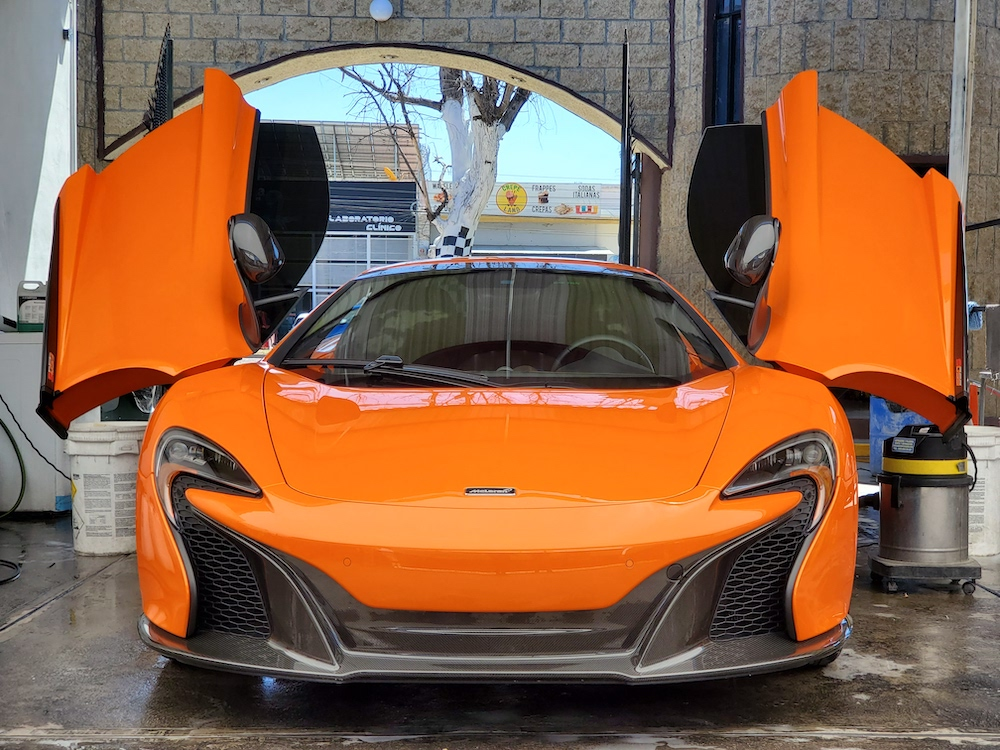
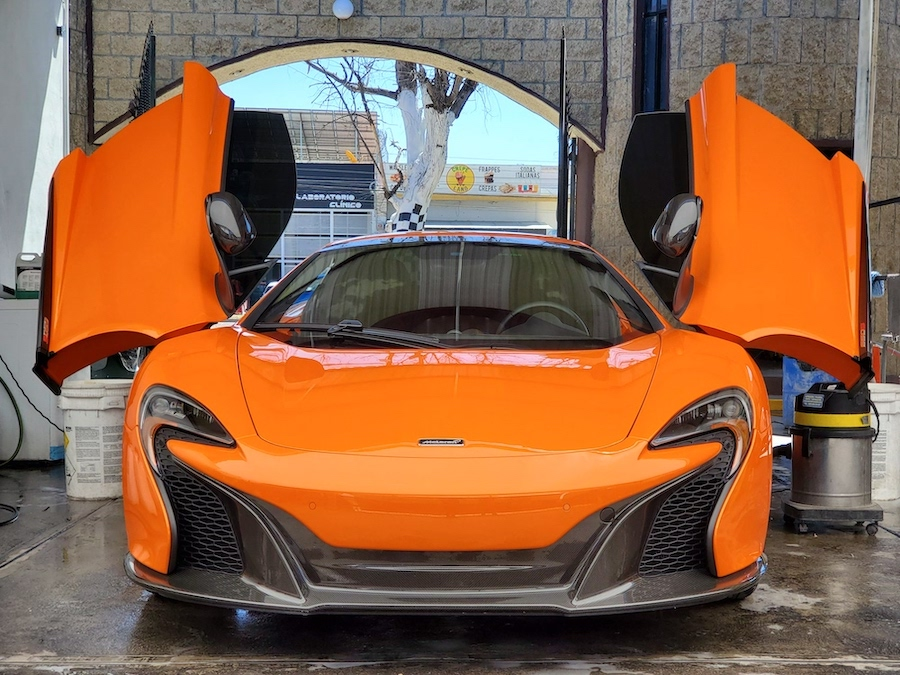
Updated images size; Fixed services height in desktop and big desktop

Changed region(s): [[0.4356, 0.3111, 0.4667, 0.3422]]

diff --git a/css/main.css b/css/main.css
@@ -1,1 +1,1 @@
-@-webkit-keyframes rev-block{0%{left:0%;width:0%}50%{left:0;width:85%}100%{left:100%;width:0}}@keyframes rev-block{0%{left:0%;width:0%}50%{left:0;width:85%}100%{left:100%;width:0}}@-webkit-keyframes appear-text{0%{opacity:0}100%{opacity:1}}@keyframes appear-text{0%{opacity:0}100%{opacity:1}}section.services{position:relative;background:#F8F8F9}@media only screen and (min-width: 85em){section.services{background:none;height:63vh}}@media only screen and (min-width: 112.5em){section.services{background:none;height:100vh}}section.services::after{background:#F8F8F9;content:"";position:absolute;top:3rem;left:0;width:100%;height:63%;z-index:-1}@media only screen and (min-width: 1024px) and (max-height: 1366px) and (orientation: landscape) and (-webkit-min-device-pixel-ratio: 1.5){section.services::after{height:50vh}}@media only screen and (min-width: 85em){section.services::after{height:60vh}}@media only screen and (min-width: 112.5em){section.services::after{height:55vh}}@media only screen and (min-width: 85em){section.services .services__container{position:absolute;top:5rem;left:2rem}}@media only screen and (min-width: 112.5em){section.services .services__container{top:6rem}}@media only screen and (min-width: 56.25em){section.services .services__img-container img{position:absolute}section.services .services__img-container img:nth-of-type(1){width:400px;left:-1rem;top:7%}}@media only screen and (min-width: 56.25em) and (min-width: 85em){section.services .services__img-container img:nth-of-type(1){width:400px;left:-2rem;top:7%}}@media only screen and (min-width: 56.25em) and (min-width: 112.5em){section.services .services__img-container img:nth-of-type(1){width:500px;left:-7rem;top:7%}}@media only screen and (min-width: 56.25em){section.services .services__img-container img:nth-of-type(2){width:400px;left:1rem;top:10rem}}@media only screen and (min-width: 56.25em) and (min-width: 85em){section.services .services__img-container img:nth-of-type(2){width:400px;left:0;top:7rem}}@media only screen and (min-width: 56.25em) and (min-width: 112.5em){section.services .services__img-container img:nth-of-type(2){width:500px;left:-3rem;top:7rem}}section.services .card{border:none;background:#F8F8F9}section.services .card-img-top{-ms-flex-item-align:center;-ms-grid-row-align:center;align-self:center;width:61px;height:61px}section.services .card-title{font-family:"Roboto",sans-serif;font-size:1.1rem}section.services .card-text{font-size:0.9rem;color:#747F8D}#blog{margin:2rem 0}@media only screen and (min-width: 85em){#blog a{margin-left:2rem}}#information{background-image:url("../img/bg-why.jpg");background-size:cover;background-position:center;height:100%}@media only screen and (min-width: 112.5em){#information{height:700px}}#information p{padding:3rem 0;margin:0}@media only screen and (min-width: 85em){#information p{padding:4rem 0}}#information h2{font-size:2rem;font-family:"Roboto",sans-serif}@media only screen and (min-width: 112.5em){#information h2{font-size:3.5rem}}#information .red-line{height:7px;background-color:#d5001c;width:200px}@media only screen and (min-width: 112.5em){#information .red-line{width:340px}}#information p{color:#747f8d;font-size:1.1rem}#information ul li{list-style:none;color:#0f263a;font-weight:bold;list-style-image:url("../img/check.svg")}.book{background-color:#f8f8f9;padding:2rem 0}.book .col-md-4{margin-top:2rem}.book .col-md-4:first-child{margin-top:0}@media only screen and (min-width: 56.25em){.book .col-md-4{margin-top:0}}@media only screen and (min-width: 112.5em){.book{padding:3rem 0;height:120px}}.book h3,.book h5{font-family:"Roboto",sans-serif;margin-bottom:0}.book h3{font-style:normal;font-weight:bold;font-size:1.6rem}.book .italic{font-style:italic}.book h5{font-size:17px}.book p{font-size:1.2rem;margin-bottom:0;font-family:"Roboto",sans-serif;font-weight:bold}.work h2{font-size:32px;color:#0f263a;font-family:"Roboto",sans-serif}.work p{color:#747f8d;font-size:0.9rem;margin:1.5rem 0}.services--quote{margin-bottom:2rem}@media only screen and (min-width: 112.5em){.services--quote{margin-top:-30rem}}.services--quote .card{background:#ffffff;-webkit-box-shadow:0 0 9px 0 rgba(0,0,0,0.09);box-shadow:0 0 9px 0 rgba(0,0,0,0.09);border:none;max-height:190px}.services--quote .card img{width:20%}.services--quote .card-body{display:-webkit-box;display:-ms-flexbox;display:flex;-webkit-box-orient:horizontal;-webkit-box-direction:normal;-ms-flex-direction:row;flex-direction:row;-webkit-box-pack:justify;-ms-flex-pack:justify;justify-content:space-between;-webkit-box-align:center;-ms-flex-align:center;align-items:center}.services--quote .card-title{font-family:"Roboto",sans-serif}.services--quote .card-text{color:#747F8D}.offers{margin:3rem 0}.offers img{margin-top:1rem}@media only screen and (min-width: 85em){.offers img{margin-top:0}}.offers h1{font-family:"Roboto",sans-serif;font-style:italic;margin-bottom:2rem}.offers h1 span{font-weight:bold}.header-top{background-color:#F8F8F9;width:100%}.header-top__container{padding:0.5rem 1rem;display:-webkit-box;display:-ms-flexbox;display:flex;-webkit-box-orient:vertical;-webkit-box-direction:normal;-ms-flex-direction:column;flex-direction:column}@media only screen and (min-width: 85em){.header-top__container{-webkit-box-orient:horizontal;-webkit-box-direction:normal;-ms-flex-direction:row;flex-direction:row;padding:0.5rem 2rem}}@media only screen and (min-width: 112.5em){.header-top__container{padding:0.5rem 15rem}}.header-top__item{display:-webkit-box;display:-ms-flexbox;display:flex;-ms-flex-line-pack:center;align-content:center}.header-top__item:last-child{padding-top:0.5rem}@media only screen and (min-width: 56.25em){.header-top__item{margin-top:0.5rem}.header-top__item img{height:18px}.header-top__item:last-child{padding-top:0}}@media only screen and (min-width: 85em){.header-top__item{padding-left:2rem;-webkit-box-pack:center;-ms-flex-pack:center;justify-content:center;margin-top:0}}.header-top__item p,.header-top__item a{font-size:0.8rem;margin:0;-ms-flex-item-align:center;-ms-grid-row-align:center;align-self:center;font-family:"Roboto",sans-serif;color:#747F8D}.header-top__item p{padding-left:0.5rem}.header-top__item p span{color:#000;font-weight:bold}.header-top__item p a:hover{text-decoration:none}nav.navbar a.navbar-brand img{height:75px}nav.navbar ul.navbar-nav li.nav-item .dropdown-menu{padding:1.5rem 0}nav.navbar ul.navbar-nav li.nav-item .dropdown-menu img{height:80px}nav.navbar ul.navbar-nav li.nav-item .dropdown-menu .dropdown-body a{font-size:1rem}nav.navbar ul.navbar-nav li.nav-item h6:last-child{margin-top:5rem}@media screen and (min-width: 1200px){nav.navbar ul.navbar-nav li.nav-item .dropdown-menu{width:350px !important;-webkit-box-shadow:0 1.5rem 4rem rgba(22,28,45,0.15);box-shadow:0 1.5rem 4rem rgba(22,28,45,0.15);border:0 solid rgba(22,28,45,0.15);padding:2rem 0;left:-12rem}nav.navbar ul.navbar-nav li.nav-item .dropdown-menu .dropdown-img-left{height:100%;background-repeat:no-repeat;background-position:center;text-align:center}nav.navbar ul.navbar-nav li.nav-item .dropdown-menu .dropdown-body h6,nav.navbar ul.navbar-nav li.nav-item .dropdown-menu .dropdown-body a{padding-left:0}nav.navbar ul.navbar-nav li.nav-item .dropdown-menu .dropdown-body a.dropdown-item{position:relative;background-color:#fff;color:#3b3b3b;-webkit-transition:color .3s;transition:color .3s}nav.navbar ul.navbar-nav li.nav-item .dropdown-menu .dropdown-body a.dropdown-item:hover{color:#019E92}}nav.navbar ul.navbar-nav li.nav-item.active{font-weight:bold}nav.navbar ul.navbar-nav li.nav-item a.nav-link{padding-right:2rem;font-family:"Roboto",sans-serif;text-transform:uppercase;letter-spacing:.7px;position:relative}nav.navbar ul.navbar-nav li.nav-item a.nav-link:before{content:"";display:block;border-bottom:3px solid #D5001C;width:0;bottom:0;position:absolute;left:7px;-webkit-transition:0.2s ease;-webkit-transition:1s ease;transition:1s ease}nav.navbar ul.navbar-nav li.nav-item a.nav-link:hover:before{width:50%}nav.navbar ul.navbar-nav li.nav-item a.nav-link--green:focus{outline:none}nav.navbar ul.navbar-nav li.nav-item a.nav-link--green:before{content:"";display:block;border-bottom:3px solid #019E92;width:0;bottom:0;position:absolute;left:7px;-webkit-transition:0.2s ease;-webkit-transition:1s ease;transition:1s ease}nav.navbar ul.navbar-nav li.nav-item a.nav-link--green:hover:before{width:50%}@media only screen and (min-width: 85em){.navbar .nav-item:not(:last-child){margin-right:25px}}.dropdown-toggle::after{-webkit-transition:-webkit-transform 0.15s linear;transition:-webkit-transform 0.15s linear;transition:transform 0.15s linear;transition:transform 0.15s linear, -webkit-transform 0.15s linear}.show.dropdown .dropdown-toggle::after{-webkit-transform:translateY(3px);transform:translateY(3px)}.dropdown-menu{margin-top:0}.jumbotron{background-color:#fff}@media only screen and (min-width: 85em){.jumbotron{padding:1rem 0;margin-bottom:5rem}}@media only screen and (min-width: 85em){.jumbotron__content{padding-right:2rem}}.jumbotron__content .title{position:relative}.jumbotron__content .title:after{content:"";position:absolute;top:0;left:0;width:0;height:90%;background:#D5001C;-webkit-animation:rev-block 1.5s cubic-bezier(0.19, 1, 0.22, 1) forwards;animation:rev-block 1.5s cubic-bezier(0.19, 1, 0.22, 1) forwards;-webkit-animation-delay:1.4s;animation-delay:1.4s}.jumbotron__content .title span{opacity:0;-webkit-animation:appear-text 0.0001s linear forwards;animation:appear-text 0.0001s linear forwards;-webkit-animation-delay:2s;animation-delay:2s;font-family:"Roboto",sans-serif;font-size:3rem}@media only screen and (min-width: 85em){.jumbotron__content .title span{font-size:3.8rem}}.jumbotron__content p{padding:2.7rem 0;font-size:.9rem}footer{background-color:#191f22;padding-bottom:1.5rem;color:#fff}@media only screen and (min-width: 85em){footer{padding-bottom:0.5rem}}footer img{height:122px;width:auto}@media only screen and (min-width: 37.5em){footer p{font-size:0.7rem}}footer a{color:#fff;font-size:0.9rem}footer a:hover{text-decoration:none;color:#fff}footer ul{text-transform:uppercase;font-family:"Roboto",sans-serif;font-weight:bold;letter-spacing:2px;font-size:0.8rem;padding:0}@media only screen and (min-width: 85em){footer ul{-webkit-padding-start:40px;padding-inline-start:40px}}footer ul li{font-family:"Spartan",sans-serif;text-transform:capitalize;list-style:none;font-size:0.8rem;margin-top:1rem}footer ul li a{font-family:"Spartan",sans-serif;color:#fff;text-decoration:none}.btn{display:inline-block}.btn--dark-red{background-color:#A43131;border-radius:0;color:#fff;font-family:"Roboto",sans-serif;letter-spacing:1.2px;padding:1rem 2rem;text-transform:uppercase;-webkit-transition:background-color 0.3s;transition:background-color 0.3s;width:60%}@media only screen and (min-width: 56.25em){.btn--dark-red{padding:1rem 2.5rem;max-width:250px}}.btn--dark-red:hover{background-color:#942c2c;color:#fff;text-decoration:none}.btn--white{background-color:#fff;border-radius:0;color:#0f263a;font-family:"Spartan",sans-serif;font-weight:bold;text-transform:capitalize;padding:0.7rem 2rem;display:inline-block;margin-top:2rem;-webkit-transition:all 0.3s;transition:all 0.3s}.btn--white:hover{color:#0f263a;-webkit-transform:translateY(-10px);transform:translateY(-10px);font-weight:bold}.card{border:none}.card .card-header{border:none}#q-a{background-color:#f8f8f9;padding:3rem 0}#q-a h2{color:#0f263a;font-family:"Roboto",sans-serif}#q-a #accordion .card .card-header{background-color:#f8f8f9}#q-a #accordion .card .card-header a{color:#0f263a;font-family:"Roboto",sans-serif}#q-a #accordion .card .card-body{background-color:#f8f8f9;color:#747f8d;text-align:justify}body{font-family:"Spartan",sans-serif;margin:0}
+@-webkit-keyframes rev-block{0%{left:0%;width:0%}50%{left:0;width:85%}100%{left:100%;width:0}}@keyframes rev-block{0%{left:0%;width:0%}50%{left:0;width:85%}100%{left:100%;width:0}}@-webkit-keyframes appear-text{0%{opacity:0}100%{opacity:1}}@keyframes appear-text{0%{opacity:0}100%{opacity:1}}section.services{position:relative;background:#F8F8F9}@media only screen and (min-width: 85em){section.services{background:none;height:63vh}}@media only screen and (min-width: 112.5em){section.services{background:none;height:90vh}}section.services::after{background:#F8F8F9;content:"";position:absolute;top:3rem;left:0;width:100%;height:63%;z-index:-1}@media only screen and (min-width: 1024px) and (max-height: 1366px) and (orientation: landscape) and (-webkit-min-device-pixel-ratio: 1.5){section.services::after{height:50vh}}@media only screen and (min-width: 85em){section.services::after{height:60vh}}@media only screen and (min-width: 112.5em){section.services::after{height:55vh}}@media only screen and (min-width: 85em){section.services .services__container{position:absolute;top:5rem;left:2rem}}@media only screen and (min-width: 112.5em){section.services .services__container{top:6rem}}@media only screen and (min-width: 56.25em){section.services .services__img-container img{position:absolute}section.services .services__img-container img:nth-of-type(1){width:400px;left:-1rem;top:7%}}@media only screen and (min-width: 56.25em) and (min-width: 56.25em){section.services .services__img-container img:nth-of-type(1){width:300px;left:-1rem;top:7%}}@media only screen and (min-width: 56.25em) and (min-width: 85em){section.services .services__img-container img:nth-of-type(1){width:400px;left:-2rem;top:7%}}@media only screen and (min-width: 56.25em) and (min-width: 112.5em){section.services .services__img-container img:nth-of-type(1){width:500px;left:-7rem;top:7%}}@media only screen and (min-width: 56.25em){section.services .services__img-container img:nth-of-type(2){width:400px;left:1rem;top:10rem}}@media only screen and (min-width: 56.25em) and (min-width: 56.25em){section.services .services__img-container img:nth-of-type(2){width:300px;left:1rem;top:10rem}}@media only screen and (min-width: 56.25em) and (min-width: 85em){section.services .services__img-container img:nth-of-type(2){width:400px;left:0;top:7rem}}@media only screen and (min-width: 56.25em) and (min-width: 112.5em){section.services .services__img-container img:nth-of-type(2){width:500px;left:-3rem;top:10rem}}section.services .card{border:none;background:#F8F8F9}section.services .card-img-top{-ms-flex-item-align:center;-ms-grid-row-align:center;align-self:center;width:61px;height:61px}section.services .card-title{font-family:"Roboto",sans-serif;font-size:1.1rem}section.services .card-text{font-size:0.9rem;color:#747F8D}#blog{margin:2rem 0}@media only screen and (min-width: 85em){#blog a{margin-left:2rem}}#information{background-image:url("../img/bg-why.jpg");background-size:cover;background-position:center;height:100%}@media only screen and (min-width: 112.5em){#information{height:700px}}#information p{padding:3rem 0;margin:0}@media only screen and (min-width: 85em){#information p{padding:4rem 0}}#information h2{font-size:2rem;font-family:"Roboto",sans-serif}@media only screen and (min-width: 112.5em){#information h2{font-size:3.5rem}}#information .red-line{height:7px;background-color:#d5001c;width:200px}@media only screen and (min-width: 112.5em){#information .red-line{width:340px}}#information p{color:#747f8d;font-size:1.1rem}#information ul li{list-style:none;color:#0f263a;font-weight:bold;list-style-image:url("../img/check.svg")}.book{background-color:#f8f8f9;padding:2rem 0}.book .col-md-4{margin-top:2rem}.book .col-md-4:first-child{margin-top:0}@media only screen and (min-width: 37.5em){.book .col-md-4{margin-top:0}}@media only screen and (min-width: 112.5em){.book{padding:3rem 0;height:120px}}.book h3,.book h5{font-family:"Roboto",sans-serif;margin-bottom:0}.book h3{font-style:normal;font-weight:bold;font-size:1.6rem}.book .italic{font-style:italic}.book h5{font-size:17px}.book p{font-size:1.2rem;margin-bottom:0;font-family:"Roboto",sans-serif;font-weight:bold}.work h2{font-size:32px;color:#0f263a;font-family:"Roboto",sans-serif}.work p{color:#747f8d;font-size:0.9rem;margin:1.5rem 0}.services--quote{margin-bottom:2rem}@media only screen and (min-width: 112.5em){.services--quote{margin-top:-20rem}}.services--quote .card{background:#ffffff;-webkit-box-shadow:0 0 9px 0 rgba(0,0,0,0.09);box-shadow:0 0 9px 0 rgba(0,0,0,0.09);border:none;max-height:190px}.services--quote .card img{width:20%}.services--quote .card-body{display:-webkit-box;display:-ms-flexbox;display:flex;-webkit-box-orient:horizontal;-webkit-box-direction:normal;-ms-flex-direction:row;flex-direction:row;-webkit-box-pack:justify;-ms-flex-pack:justify;justify-content:space-between;-webkit-box-align:center;-ms-flex-align:center;align-items:center}.services--quote .card-title{font-family:"Roboto",sans-serif}.services--quote .card-text{color:#747F8D}.offers{margin:3rem 0}.offers img{margin-top:1rem}@media only screen and (min-width: 85em){.offers img{margin-top:0}}.offers h1{font-family:"Roboto",sans-serif;font-style:italic;margin-bottom:2rem}.offers h1 span{font-weight:bold}.header-top{background-color:#F8F8F9;width:100%}.header-top__container{padding:0.5rem 1rem;display:-webkit-box;display:-ms-flexbox;display:flex;-webkit-box-orient:vertical;-webkit-box-direction:normal;-ms-flex-direction:column;flex-direction:column}@media only screen and (min-width: 85em){.header-top__container{-webkit-box-orient:horizontal;-webkit-box-direction:normal;-ms-flex-direction:row;flex-direction:row;padding:0.5rem 2rem}}@media only screen and (min-width: 112.5em){.header-top__container{padding:0.5rem 15rem}}.header-top__item{display:-webkit-box;display:-ms-flexbox;display:flex;-ms-flex-line-pack:center;align-content:center}.header-top__item:last-child{padding-top:0.5rem}@media only screen and (min-width: 56.25em){.header-top__item{margin-top:0.5rem}.header-top__item img{height:18px}.header-top__item:last-child{padding-top:0}}@media only screen and (min-width: 85em){.header-top__item{padding-left:2rem;-webkit-box-pack:center;-ms-flex-pack:center;justify-content:center;margin-top:0}}.header-top__item p,.header-top__item a{font-size:0.8rem;margin:0;-ms-flex-item-align:center;-ms-grid-row-align:center;align-self:center;font-family:"Roboto",sans-serif;color:#747F8D}.header-top__item p{padding-left:0.5rem}.header-top__item p span{color:#000;font-weight:bold}.header-top__item p a:hover{text-decoration:none}nav.navbar a.navbar-brand img{height:75px}nav.navbar ul.navbar-nav li.nav-item .dropdown-menu{padding:1.5rem 0}nav.navbar ul.navbar-nav li.nav-item .dropdown-menu img{height:80px}nav.navbar ul.navbar-nav li.nav-item .dropdown-menu .dropdown-body a{font-size:1rem}nav.navbar ul.navbar-nav li.nav-item h6:last-child{margin-top:5rem}@media screen and (min-width: 1200px){nav.navbar ul.navbar-nav li.nav-item .dropdown-menu{width:350px !important;-webkit-box-shadow:0 1.5rem 4rem rgba(22,28,45,0.15);box-shadow:0 1.5rem 4rem rgba(22,28,45,0.15);border:0 solid rgba(22,28,45,0.15);padding:2rem 0;left:-12rem}nav.navbar ul.navbar-nav li.nav-item .dropdown-menu .dropdown-img-left{height:100%;background-repeat:no-repeat;background-position:center;text-align:center}nav.navbar ul.navbar-nav li.nav-item .dropdown-menu .dropdown-body h6,nav.navbar ul.navbar-nav li.nav-item .dropdown-menu .dropdown-body a{padding-left:0}nav.navbar ul.navbar-nav li.nav-item .dropdown-menu .dropdown-body a.dropdown-item{position:relative;background-color:#fff;color:#3b3b3b;-webkit-transition:color .3s;transition:color .3s}nav.navbar ul.navbar-nav li.nav-item .dropdown-menu .dropdown-body a.dropdown-item:hover{color:#019E92}}nav.navbar ul.navbar-nav li.nav-item.active{font-weight:bold}nav.navbar ul.navbar-nav li.nav-item a.nav-link{padding-right:2rem;font-family:"Roboto",sans-serif;text-transform:uppercase;letter-spacing:.7px;position:relative}nav.navbar ul.navbar-nav li.nav-item a.nav-link:before{content:"";display:block;border-bottom:3px solid #D5001C;width:0;bottom:0;position:absolute;left:7px;-webkit-transition:0.2s ease;-webkit-transition:1s ease;transition:1s ease}nav.navbar ul.navbar-nav li.nav-item a.nav-link:hover:before{width:50%}nav.navbar ul.navbar-nav li.nav-item a.nav-link--green:focus{outline:none}nav.navbar ul.navbar-nav li.nav-item a.nav-link--green:before{content:"";display:block;border-bottom:3px solid #019E92;width:0;bottom:0;position:absolute;left:7px;-webkit-transition:0.2s ease;-webkit-transition:1s ease;transition:1s ease}nav.navbar ul.navbar-nav li.nav-item a.nav-link--green:hover:before{width:50%}@media only screen and (min-width: 85em){.navbar .nav-item:not(:last-child){margin-right:25px}}.dropdown-toggle::after{-webkit-transition:-webkit-transform 0.15s linear;transition:-webkit-transform 0.15s linear;transition:transform 0.15s linear;transition:transform 0.15s linear, -webkit-transform 0.15s linear}.show.dropdown .dropdown-toggle::after{-webkit-transform:translateY(3px);transform:translateY(3px)}.dropdown-menu{margin-top:0}.jumbotron{background-color:#fff}@media only screen and (min-width: 85em){.jumbotron{padding:1rem 0;margin-bottom:5rem}}@media only screen and (min-width: 85em){.jumbotron__content{padding-right:2rem}}.jumbotron__content .title{position:relative}.jumbotron__content .title:after{content:"";position:absolute;top:0;left:0;width:0;height:90%;background:#D5001C;-webkit-animation:rev-block 1.5s cubic-bezier(0.19, 1, 0.22, 1) forwards;animation:rev-block 1.5s cubic-bezier(0.19, 1, 0.22, 1) forwards;-webkit-animation-delay:1.4s;animation-delay:1.4s}.jumbotron__content .title span{opacity:0;-webkit-animation:appear-text 0.0001s linear forwards;animation:appear-text 0.0001s linear forwards;-webkit-animation-delay:2s;animation-delay:2s;font-family:"Roboto",sans-serif;font-size:3rem}@media only screen and (min-width: 85em){.jumbotron__content .title span{font-size:3.8rem}}.jumbotron__content p{padding:2.7rem 0;font-size:.9rem}footer{background-color:#191f22;padding-bottom:1.5rem;color:#fff}@media only screen and (min-width: 85em){footer{padding-bottom:0.5rem}}footer img{height:122px;width:auto}@media only screen and (min-width: 37.5em){footer p{font-size:0.7rem}}footer a{color:#fff;font-size:0.9rem}footer a:hover{text-decoration:none;color:#fff}footer ul{text-transform:uppercase;font-family:"Roboto",sans-serif;font-weight:bold;letter-spacing:2px;font-size:0.8rem;padding:0}@media only screen and (min-width: 85em){footer ul{-webkit-padding-start:40px;padding-inline-start:40px}}footer ul li{font-family:"Spartan",sans-serif;text-transform:capitalize;list-style:none;font-size:0.8rem;margin-top:1rem}footer ul li a{font-family:"Spartan",sans-serif;color:#fff;text-decoration:none}.btn{display:inline-block}.btn--dark-red{background-color:#A43131;border-radius:0;color:#fff;font-family:"Roboto",sans-serif;letter-spacing:1.2px;padding:1rem 2rem;text-transform:uppercase;-webkit-transition:background-color 0.3s;transition:background-color 0.3s;width:60%}@media only screen and (min-width: 56.25em){.btn--dark-red{padding:1rem 2.5rem;max-width:250px}}.btn--dark-red:hover{background-color:#942c2c;color:#fff;text-decoration:none}.btn--white{background-color:#fff;border-radius:0;color:#0f263a;font-family:"Spartan",sans-serif;font-weight:bold;text-transform:capitalize;padding:0.7rem 2rem;display:inline-block;margin-top:2rem;-webkit-transition:all 0.3s;transition:all 0.3s}.btn--white:hover{color:#0f263a;-webkit-transform:translateY(-10px);transform:translateY(-10px);font-weight:bold}.card{border:none}.card .card-header{border:none}#q-a{background-color:#f8f8f9;padding:3rem 0}#q-a h2{color:#0f263a;font-family:"Roboto",sans-serif}#q-a #accordion .card .card-header{background-color:#f8f8f9}#q-a #accordion .card .card-header a{color:#0f263a;font-family:"Roboto",sans-serif}#q-a #accordion .card .card-body{background-color:#f8f8f9;color:#747f8d;text-align:justify}body{font-family:"Spartan",sans-serif;margin:0}

diff --git a/scss/pages/_home.scss b/scss/pages/_home.scss
@@ -9,7 +9,7 @@ section.services {
   }
   @include respond("big-desktop") {
     background: none;
-    height: 100vh;
+    height: 90vh;
   }
   &::after {
     background: $light-gray;
@@ -49,6 +49,11 @@ section.services {
           width: 400px;
           left: -1rem;
           top: 7%;
+          @include respond("tab-port") {
+            width: 300px;
+            left: -1rem;
+            top: 7%;
+          }
           @include respond("desktop") {
             width: 400px;
             left: -2rem;
@@ -65,6 +70,11 @@ section.services {
           left: 1rem;
           top: 10rem;
           // margin-top: 15%;
+          @include respond("tab-port") {
+            width: 300px;
+            left: 1rem;
+            top: 10rem;
+          }
           @include respond("desktop") {
             width: 400px;
             left: 0;
@@ -73,7 +83,7 @@ section.services {
           @include respond("big-desktop") {
             width: 500px;
             left: -3rem;
-            top: 7rem;
+            top: 10rem;
           }
         }
       }
@@ -161,7 +171,7 @@ section.services {
       margin-top: 0;
     }
     margin-top: 2rem;
-    @include respond("tab-port") {
+    @include respond("phone") {
       margin-top: 0;
     }
   }
@@ -208,7 +218,7 @@ section.services {
 .services--quote {
   margin-bottom: 2rem;
   @include respond("big-desktop") {
-    margin-top: -30rem;
+    margin-top: -20rem;
   }
   .card {
     background: #ffffff;
